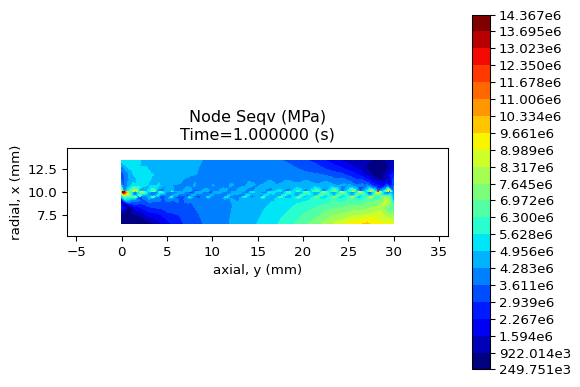
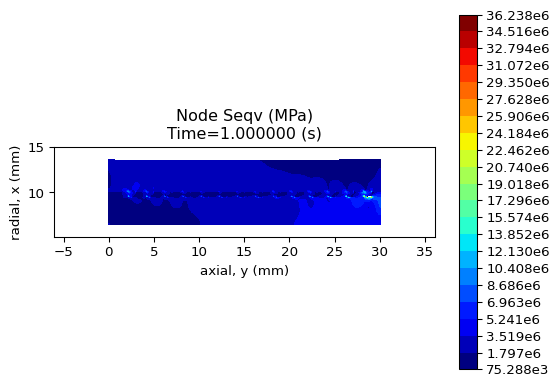
Add files via upload

Changed region(s): [[0.0, 0.031, 1.0, 0.9922], [0.0, 0.5271, 0.0304, 0.6202]]

diff --git a/mypycalculix.py b/mypycalculix.py
@@ -6,74 +6,115 @@ import pycalculix as pyc
 pyc.environment.GMSH=r"d:\Portable\gmsh-4.8.4-Windows64\gmsh.exe"
 pyc.environment.CCX=r"d:\Portable\cae_20200725_windows\bin\ccx.exe"
 pyc.environment.CGX=r"d:\Portable\cae_20200725_windows\bin\cgx.exe"
-model_name = 'thread'
-model = pyc.FeaModel(model_name) # модель
-model.set_units('mm') # одиниці вимірювання
 
 show_gui = True # показувати графіки
 
 # геометричні параметри з'єднання
-l = 30
-t1 = 3.5
-t2 = 3.5
-r0 = 6.5
-hh=0.1
+l = 30 # довжина
+t1 = 3.5 # товщина стінки ніпеля
+t2 = 3.5 # товщина стінки муфти
+r0 = 13.0/2 # внутрішній радіус ніпеля
+h1=0.5 # висота 1 різьби ніпеля
+h2=0.4 # висота 2 різьби ніпеля
+h3=0.5 # висота різьби муфти
+s1=0.5 # ширина 1 профілю ніпеля
+s2=0.8 # ширина 2 профілю ніпеля
+k=2.0 # крок
+hh=0.1 # радіальний зазор в різьбі
+l_=l-2 # довжина різьби
 
-part = pyc.Part(model) # деталь
+def findLine(lns,**args):
+    """Usage:
+    list(findLine(lines=model.lines, midpt=(6.5,15)))[0].get_name()
+    """
+    if 'midpt' in args:
+        midpt=args['midpt']
+        for l in lines:
+            if l.midpt.x==midpt[0] and l.midpt.y==midpt[1]:
+                yield l
 
 def run():
+    model_name = 'thread'
+    model = pyc.FeaModel(model_name) # модель
+    model.set_units('mm') # одиниці вимірювання
+    part = pyc.Part(model) # деталь ніпеля
+    part2 = pyc.Part(model) # деталь муфти
     # рисувати контури з'єднання
     part.goto(r0, 0) # перейти в точку
-    l1=part.draw_line_ax(l) # рисувати лінію вздовж
-    l2=part.draw_line_rad(t1) # рисувати лінію поперек
-    l3=part.draw_line_rad(t2)
-    l4=part.draw_line_ax(-l)
-    l5=part.draw_line_rad(-t2)
-    l6=part.draw_line_rad(-t1)
+    l0=part.draw_line_ax(l) # рисувати лінію вздовж
+    l1=part.draw_line_rad(t1) # рисувати лінію поперек
+    part.draw_line_ax(-1)
+    li=0
+    while li<l_:
+        part.draw_line_rad(-h1)
+        part.draw_line_ax(-s1)
+        part.draw_line_rad(h1-h2)
+        part.draw_line_ax(-(s2-s1))
+        part.draw_line_rad(h2)
+        part.draw_line_ax(-(k-s2))
+        li+=k
+    part.draw_line_ax(-(l-1-li))
+    l2=part.draw_line_rad(-t1)
 
-    # зазори
-    for i in range(15): # 15 отворів
-        d=i*2.0 # осьова координата
-        w = 1.2 # ширина
-        h = hh # висота
-        part.goto(10, 0.3+d, holemode=True) # перейти в точку, режим отворів
-        part.draw_line_rad(h) # рисувати лінію поперек
-        part.draw_line_ax(w) # рисувати лінію вздовж
-        part.draw_line_rad(-h)
-        part.draw_line_ax(-w)
-
-    for i in range(14): # 14 отворів
-        d=i*2.0 # осьова координата
-        w = 0.5 # ширина
-        h = hh # висота
-        part.goto(9.5, 1.5+d, holemode=True) # перейти в точку, режим отворів
-        part.draw_line_rad(h) # рисувати лінію поперек
-        part.draw_line_ax(w) # рисувати лінію вздовж
-        part.draw_line_rad(-h)
-        part.draw_line_ax(-w)
-
+    part2.goto(r0+t1+hh, l)
+    part2.draw_line_ax(-1)
+    li=0
+    while li<l_: # for x in range(14):
+        part2.draw_line_rad(-h3)
+        part2.draw_line_ax(-s2)
+        part2.draw_line_rad(h3)
+        part2.draw_line_ax(-(k-s2))
+        li+=k
+    part2.draw_line_ax(-(l-1-li))
+    l3=part2.draw_line_rad(t2)
+    l4=part2.draw_line_ax(l)
+    l5=part2.draw_line_rad(-t2)
     # показати геометрію
     model.plot_geometry(model_name + '_pre', display=show_gui)
     model.view.print_summary() # текстова інформація про геометрію
 
+    # установити матеріал деталей
+    mat = pyc.Material('steel')
+    youngs=900e6 # сталь 2.1e11, 7800, 0.3
+    mat.set_mech_props(910, youngs, 0.4) # властивості матеріалу
+    model.set_matl(mat, part)
+    model.set_matl(mat, part2)
+
+    ln=model.lines
+
+    # set contact
+    factor = 5 # can be between 5 and 50
+    kval = youngs*factor
+
+    #Master=[l.get_name() for l in ln[2:86]]
+    #Slave=[l.get_name() for l in ln[89:145]]
+    # or
+    Master=[l.get_name() for l in set(part2.lines)-set([l3[0], l4[0], l5[0]])]
+    Slave=[l.get_name() for l in set(part.lines)-set([l0[0], l1[0], l3[0]])]
+    model.set_contact_linear(Master, Slave, kval, True)
+    # or
+    # Master=[l.get_name() for l in ln[92:144+1:4]]
+    # Slave=[l.get_name() for l in ln[7:85+1:6]]
+    # for (master, slave) in zip(Master, Slave):
+    #     model.set_contact_linear(Master, Slave, kval, True)
+
+    model.set_esize(Master+Slave, 0.3)
+    model.set_ediv(ln, 10)
+
     model.set_etype('axisym', part) # тип елементів - осесиметричні
-    model.set_eshape('tri', 2) # форма елементів - трикутні
+    model.set_etype('axisym', part2)
+    model.set_eshape('tri', 2) # форма елементів - трикутні tri, чотирикутні quad
     model.mesh(0.1, 'gmsh') # створити сітку за допомогою gmsh
     model.plot_elements(model_name+'_elements', display=show_gui) # показати сітку
     model.view.print_summary()
     model.print_summary()
 
-    # установити матеріал деталей
-    mat = pyc.Material('steel')
-    mat.set_mech_props(7800, 210*(10**9), 0.3) # властивості матеріалу
-    model.set_matl(mat, part)
-
     # установити навантаження і граничні умови
-    #model.set_constr('fix',part.bottom,'x')
+    #model.set_constr('fix',[ln[0]],'x')
     # низ нерухомий
-    model.set_constr('fix',[l5[0]],'x')
-    model.set_constr('fix',[l5[0]],'y')
-    model.set_load("press", [l2[0]], -10e6) # навантаження у верхній частині
+    model.set_constr('fix',[l3[0]],'x')
+    model.set_constr('fix',[l3[0]],'y')
+    model.set_load("press", [l1[0]], -5e6) # навантаження у верхній частині
 
     # створити завдання
     prob = pyc.Problem(model, 'struct')
@@ -81,7 +122,7 @@ def run():
     try:
         prob.solve() # розв'язати
     except:
-        pass
+        print('solver error!')
 
     prob.rfile.set_time(1.0) # результати в заданий момент часу
 
@@ -98,4 +139,14 @@ if __name__=="__main__":
     show_gui = False
     hh=0.1
     print(run())
+
+    # seq=[]
+    # for ll in [8,10,12,14,16,18,20,22,24,26,28]:
+    #     l_=ll
+    #     seq.append(run())
+
+#hh=range(0,22,2)[165,134,98,66,39,36,36,36,35,35,35]
+#l_=[8,10,12,14,16,18,20,22,24,26,28][40,38.4,37.7,37.2,36.8,36.6,36.4,36.3,36.3,36.2,36.2]
+#k=[1.4, 1.6, 1.8, 2, 2.2, 2.4, 2.6] [34.9,36.2,36.1,36.2,36.5,36.8,37.1]
+
 

diff --git a/HX711proteus_client.py b/HX711proteus_client.py
@@ -1,0 +1,17 @@
+# -*- coding: utf-8 -*-
+
+import serial,time
+def run():
+    ser = serial.Serial(port='COM7', baudrate=9600) # відкрити порт COM
+    print(ser.portstr) # перевірити чи порт використовується
+
+    X,Y=[],[]
+    for x in range(10):
+        y=ser.readline() # читати рядок
+        y=float(y)
+        X.append(x)
+        Y.append(y)
+        time.sleep(1) # чекати 1 секунду
+
+    ser.close() # закрити порт
+    return X,Y
